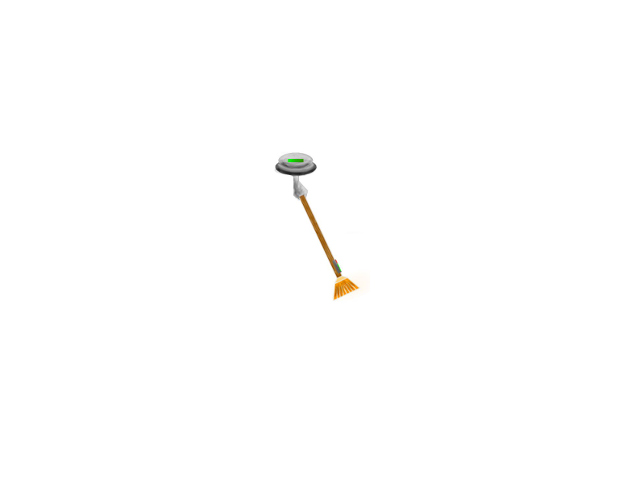
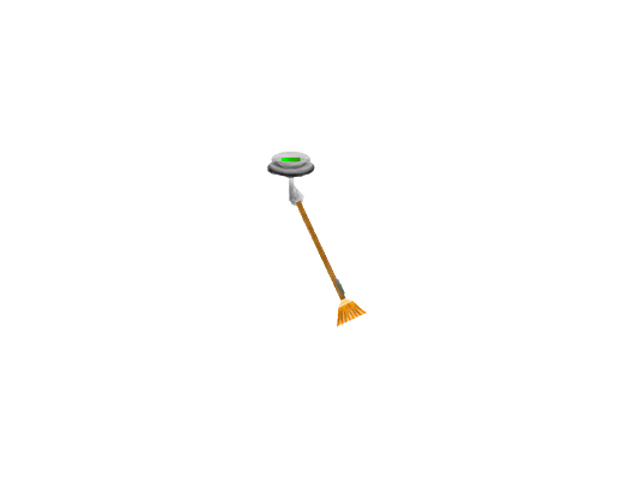
added more to broom class

Changed region(s): [[0.4062, 0.3125, 0.5938, 0.6875]]

diff --git a/src/team/ljm/game/Game.java b/src/team/ljm/game/Game.java
@@ -13,6 +13,7 @@ import team.ljm.display.TextureManager;
 import team.ljm.game.menu.Menu;
 import team.ljm.game.objects.CollisionObject;
 import team.ljm.game.objects.Player;
+import team.ljm.game.objects.obstacles.Brooms;
 import team.ljm.game.objects.obstacles.Fire;
 
 public class Game {
@@ -24,6 +25,7 @@ public class Game {
 	private List<Fire> fire;
 	private List<CollisionObject> scrollables;
 	private Player player;
+	private Brooms broom0;
 
 	private GameState gameState;
 
@@ -39,6 +41,7 @@ public class Game {
 			}
 			if (Keyboard.isKeyDown(Keyboard.KEY_ESCAPE)) {
 				Display.destroy(); // when in the menu key if we click escape then we will exit program
+				System.out.println("Exiting game from Menu state");
 				System.exit(0);
 			}
 
@@ -61,12 +64,12 @@ public class Game {
 					e.printStackTrace();
 				}
 			}
+			broom0.sweep();
 			break;
 		case GAME:
 			for (Fire fire : this.fire) {
 				fire.burn(this.player);
 			}
-			
 			
 			// handle player movement here
 			// handle scrolling here
@@ -95,17 +98,27 @@ public class Game {
 
 		switch (this.gameState) {
 		case MENU:
+			System.out.println("Entered Menu State");
 			this.menu = new Menu(this);
 			this.menu.open();
 			break;
 		case GAME:
-
+			System.out.println("Entered Game State");
+			this.getMain().getWindow().registerDisplayObject(new DisplayObject(0,0, TextureManager.getTexture("background")));
 			break;
 		case INTRO:
+			System.out.println("Entered Intro State");
 			this.introBG = new DisplayObject(0, 0, TextureManager.getTexture("introbg"));
 			this.getMain().getWindow().registerDisplayObject(introBG);
 			break;
 		case PAUSED:
+			System.out.println("Entered Paused State");
+			this.getMain().getWindow().registerDisplayObject(new DisplayObject(0,0, TextureManager.getTexture("background")));
+			
+			//add broom. 
+			broom0 = new Brooms(new Location(50f, 50f), true, 200);
+			this.getMain().getWindow().registerDisplayObject(broom0);
+			
 			this.fire = new ArrayList<Fire>();
 			this.scrollables = new ArrayList<CollisionObject>();
 			break;

diff --git a/src/team/ljm/display/TextureManager.java b/src/team/ljm/display/TextureManager.java
@@ -31,6 +31,7 @@ public class TextureManager {
 		textures.put("fire1", this.loadTexture("fire1"));
 		textures.put("fire2", this.loadTexture("fire2"));
 		textures.put("fire3", this.loadTexture("fire3"));
+		textures.put("BroomFlip",  this.loadTexture("BroomFlip"));
 	}
 
 	private Texture loadTexture(String name) {
